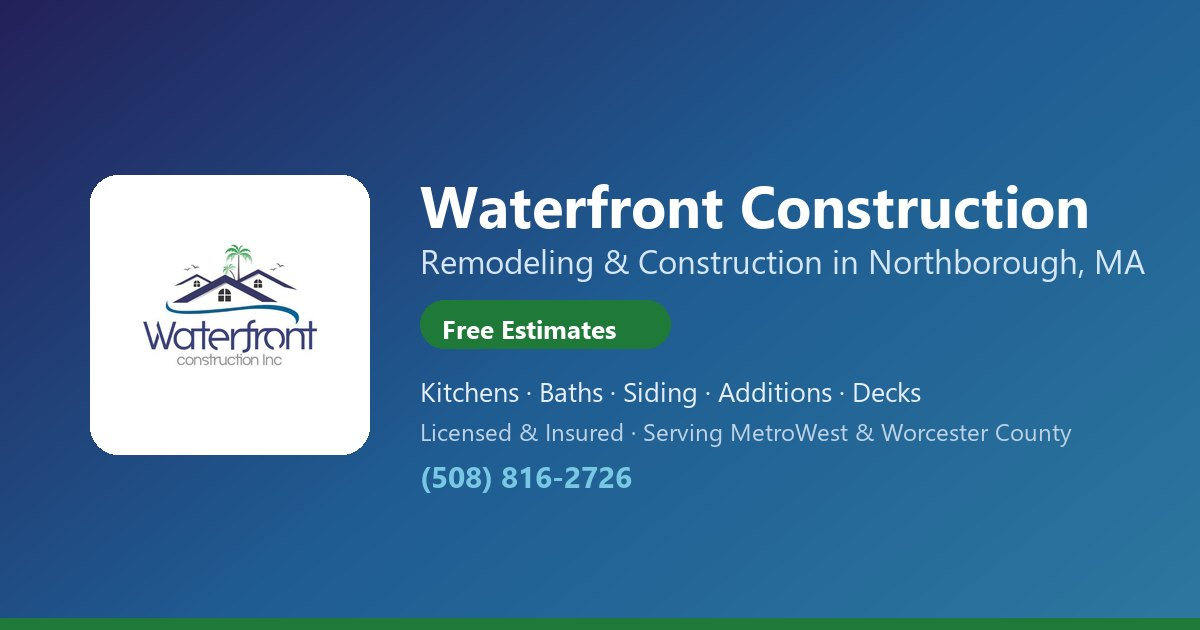
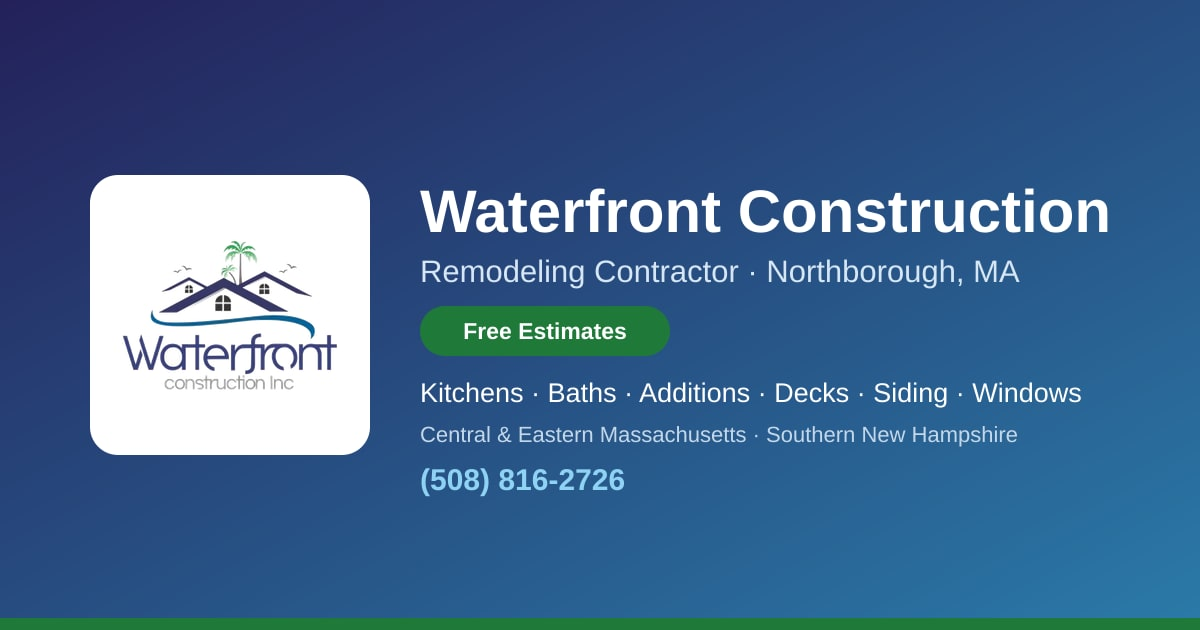
WIP: business facts single source, service area, OG images, pageMeta with true image sizes
Claude-Session: https://claude.ai/code/session_01Hs2iL7Ppt9jmZR8R8EwH7x

Changed region(s): [[0.3392, 0.2714, 0.9558, 0.573], [0.3392, 0.6032, 0.8942, 0.7841], [0.0925, 0.3619, 0.2775, 0.6333]]

diff --git a/lib/site.ts b/lib/site.ts
@@ -1,6 +1,7 @@
 export const site = {
   name: "Waterfront Construction Inc",
   shortName: "Waterfront Construction",
+  owner: "Ernando Nunes",
   phone: "(508) 816-2726",
   phoneHref: "tel:+15088162726",
   email: "waterfrontmass@gmail.com",
@@ -9,10 +10,18 @@ export const site = {
   city: "Northborough, MA",
   hours: "Mon–Sat, 7am–6pm",
   founded: 2017,
-  experience: 15,
+  experience: 15, // the owner's years of hands-on construction experience (confirmed by the owner)
+  projectsCompleted: 500, // confirmed by the owner
+  townsWithProjects: 30, // towns where the company has completed projects (confirmed by the owner)
   instagram: "https://www.instagram.com/waterfrontconstruction/",
   facebook: "https://www.facebook.com/Waterfrontconst/",
+  gbp: "https://g.page/r/CTGCYqkGHrecEBM", // Google Business Profile (same token as the review link)
   googleReview: "https://g.page/r/CTGCYqkGHrecEBM/review",
+  // Massachusetts law (M.G.L. c.142A §17 / 201 CMR 18.00) requires the HIC registration number on
+  // every advertisement, including web pages. Fill these in from the owner's documents — every
+  // credential line on the site renders only when its value is set (never a placeholder).
+  hic: "", // MA Home Improvement Contractor registration #, e.g. "123456"
+  csl: "", // MA Construction Supervisor License # held by the owner, e.g. "CS-123456"
 };
 
 export const nav = [
@@ -127,11 +136,8 @@ export const services: Service[] = [
   },
 ];
 
-export const galleryImages = [
-  "/images/kitchen.jpg", "/images/home-exterior.jpg", "/images/bathroom.jpg",
-  "/images/deck.jpg", "/images/remodel.jpg", "/images/siding.jpg",
-  "/images/windows.jpg", "/images/painting.jpg", "/images/addition.jpg",
-];
+
+import { TOWN_GEO } from "./town-geo";
 
 export type City = { n: string; s?: "NH" };
 
@@ -195,15 +201,35 @@ export const citySlug = (c: City) =>
 export const cityLabel = (c: City) => `${c.n}, ${c.s ?? "MA"}`;
 export const cityStateFull = (c: City) => (c.s === "NH" ? "New Hampshire" : "Massachusetts");
 
+// ONE statement of the service area, used everywhere (copy, schema, llms.txt, OG, manifest).
+// Counties are computed from the actual town list so they can never drift from the town pages.
+const countyCount = allCities.reduce<Record<string, number>>((m, c) => {
+  const k = `${TOWN_GEO[citySlug(c)][0]} County, ${c.s === "NH" ? "New Hampshire" : "Massachusetts"}`;
+  m[k] = (m[k] || 0) + 1;
+  return m;
+}, {});
+export const serviceArea = {
+  short: "Central & Eastern Massachusetts and southern New Hampshire",
+  regions: "Worcester County, MetroWest, Greater Boston, the North Shore, the South Shore & Bristol County, and southern New Hampshire",
+  base: "Northborough, MA (Worcester County)",
+  // [county, number of served towns], largest first
+  counties: Object.entries(countyCount).sort((a, b) => b[1] - a[1]) as [string, number][],
+};
+
 export const stats = [
-  { value: "15+", label: "Years of experience" },
-  { value: "30+", label: "Towns served" },
-  { value: "100%", label: "Licensed & insured" },
-  { value: "1-on-1", label: "Owner-led projects" },
+  { value: `${site.experience}+`, label: "Years of hands-on experience" },
+  { value: `${site.projectsCompleted}+`, label: "Projects completed" },
+  { value: `${site.townsWithProjects}+`, label: "Towns with completed projects" },
+  { value: String(site.founded), label: "Founded in Northborough, MA" },
 ];
 
+// Real client testimonials, shared verbatim by the home page and /reviews (confirmed real and
+// published with permission by the owner). Never mark these up as Review/AggregateRating.
 export const testimonials = [
-  { name: "Karen M.", town: "Shrewsbury, MA", text: "Ernando's crew remodeled our kitchen and a bathroom. Clean, on schedule, and the finish work is flawless. We get compliments constantly." },
-  { name: "Dave R.", town: "Westborough, MA", text: "New siding and windows completely transformed the house. Professional from the estimate to the final walkthrough." },
-  { name: "Priya S.", town: "Northborough, MA", text: "They built our deck and a small addition. Great communication the whole way — exactly what you want in a contractor." },
+  { name: "Karen M.", town: "Shrewsbury, MA", date: "May 2026", text: "Ernando's crew remodeled our kitchen and a bathroom. Clean, on schedule, and the finish work is flawless. We get compliments constantly." },
+  { name: "Dave R.", town: "Westborough, MA", date: "Apr 2026", text: "New siding and windows completely transformed the house. Professional from the estimate to the final walkthrough — highly recommend." },
+  { name: "Priya S.", town: "Northborough, MA", date: "Apr 2026", text: "They built our deck and a small addition. Great communication the whole way. Exactly what you want in a contractor." },
+  { name: "Tom & Lisa B.", town: "Marlborough, MA", date: "Mar 2026", text: "Full first-floor remodel. The team treated our home like their own and the quality is outstanding. Worth every penny." },
+  { name: "Rafael C.", town: "Hudson, MA", date: "Feb 2026", text: "Honest pricing and no surprises. Our bathroom looks like it belongs in a magazine. Will definitely hire again." },
+  { name: "Susan D.", town: "Framingham, MA", date: "Jan 2026", text: "From the first phone call they were responsive and professional. The kitchen came out beautiful and on budget." },
 ];

diff --git a/lib/seo.ts b/lib/seo.ts
@@ -1,24 +1,49 @@
 import type { Metadata } from "next";
 
 export const SITE_URL = "https://waterfrontconstructionma.com";
-export const OG_IMAGE = `${SITE_URL}/og.jpg`;
-export const GEO = { lat: 42.3195, lng: -71.6412 }; // Northborough, MA
+export const SITE_NAME = "Waterfront Construction";
+export const OG_IMAGE = { url: `${SITE_URL}/og.jpg`, width: 1200, height: 630, alt: "Waterfront Construction — owner-led remodeling contractor in Northborough, MA" };
+export const GEO = { lat: 42.3195, lng: -71.6412 }; // Northborough, MA (town center)
 
-type MetaArgs = { title: string; description: string; path: string; image?: string; absoluteTitle?: boolean; noindex?: boolean };
+export type OgImage = { url: string; width: number; height: number; alt: string };
 
-export function pageMeta({ title, description, path, image = OG_IMAGE, absoluteTitle = false, noindex = false }: MetaArgs): Metadata {
-  const url = `${SITE_URL}${path}`;
+type MetaArgs = {
+  title: string;
+  description: string;
+  path: string;
+  image?: OgImage; // must carry its TRUE pixel size (use ogFor() for site images)
+  absoluteTitle?: boolean;
+  noindex?: boolean;
+  article?: { published: string; modified: string; section?: string; tags?: string[] };
+};
+
+const abs = (u: string) => (u.startsWith("http") ? u : `${SITE_URL}${u}`);
+
+export function pageMeta({ title, description, path, image = OG_IMAGE, absoluteTitle = false, noindex = false, article }: MetaArgs): Metadata {
+  const url = `${SITE_URL}${path === "/" ? "" : path}`;
+  const fullTitle = absoluteTitle ? title : `${title} | ${SITE_NAME}`;
+  const img = { ...image, url: abs(image.url) };
   return {
     title: absoluteTitle ? { absolute: title } : title,
     description,
     ...(noindex ? { robots: { index: false, follow: true } } : {}),
     alternates: { canonical: url },
     openGraph: {
-      title: absoluteTitle ? title : `${title} | Waterfront Construction Inc`,
-      description, url, siteName: "Waterfront Construction Inc",
-      type: "website", locale: "en_US",
-      images: [{ url: image, width: 1200, height: 630, alt: "Waterfront Construction Inc" }],
+      title: fullTitle,
+      description,
+      url,
+      siteName: SITE_NAME,
+      locale: "en_US",
+      images: [img],
+      ...(article
+        ? { type: "article", publishedTime: article.published, modifiedTime: article.modified, authors: [`${SITE_URL}/about`], section: article.section, tags: article.tags }
+        : { type: "website" }),
     },
-    twitter: { card: "summary_large_image", title, description, images: [image] },
+    twitter: { card: "summary_large_image", title: fullTitle, description, images: [{ url: img.url, alt: img.alt }] },
   };
+}
+
+// Pre-cropped 1200×630 social images generated from real site photos (public/og/*.jpg).
+export function ogFor(slug: string, alt: string): OgImage {
+  return { url: `${SITE_URL}/og/${slug}.jpg`, width: 1200, height: 630, alt };
 }
